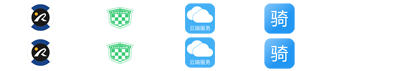
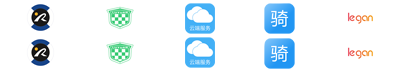
1020
1020

Changed region(s): [[0.87, 0.169, 0.93, 0.338], [0.87, 0.6761, 0.93, 0.8169]]

diff --git a/index.html b/index.html
@@ -2,8 +2,10 @@
 <html xmlns="http://www.w3.org/1999/xhtml">
 <head>
 <meta http-equiv="Content-Type" content="text/html; charset=utf-8" />
+<meta name="viewport" content="width=device-width, initial-scale=1">
 <title>手机APP客户端下载</title>
 <style>
+
 .msgbtns {
 
     float: right;
@@ -59,20 +61,74 @@
 
 <div id="banner-box" style="height:100%">
 	<div class="banner-nav banner-nav-abs">
-		<div class="banner-inner png" style="padding-left:180px">
+		<div class="banner-inner png" >
 			<ul>
-				<li><div></div><a href="javascript:;" class="bg1"><span class="png"></span>智慧新日</a></li>
-				<li><div></div><a href="javascript:;" class="bg2"><span class="png"></span>智慧绿源</a></li>
-				<li><div></div><a href="javascript:;" class="bg3"><span class="png"></span>台铃云</a></li>
-				<li><div></div><a href="javascript:;" class="bg4"><span class="png"></span>骑多多</a></li>
-				<li><div></div><a href="javascript:;" class="bg5"><span class="png"></span>乐感智能</a></li>
+				<li><div></div><a href="javascript:;" class="bg1"><span class="png"></span>骑多多</a></li>
+				<li><div></div><a href="javascript:;" class="bg2"><span class="png"></span>乐感智能</a></li>
+				<li><div></div><a href="javascript:;" class="bg3"><span class="png"></span>智慧新日</a></li>
+				<li><div></div><a href="javascript:;" class="bg4"><span class="png"></span>智慧绿源</a></li>
+				<li><div></div><a href="javascript:;" class="bg5"><span class="png"></span>台铃云</a></li>
 				
 			</ul>
 		</div>
 	</div>
-	<div class="banner-list">
-		<!--活动-->
-		<li style="width:100vh; height:100vh;background: url(img/p3_bg.jpg) rebeccapurple">
+	<div class="banner-list" style="margin:0 auto;">
+		<!--骑多多-->
+        <li style="background: url(img/p3_bg.jpg);">
+        
+		  <div class="animate-box png">
+				<div class="t-d">
+					<h2 style="font-size:45px">骑多多</h2>
+					<br />
+					<p style="font-size:32px">
+					客户端下载
+                   </p>
+                  <div style="font-size:16px; margin-top:50px"><p>用手机扫描左侧二维码，或选择适合你的手机系统下载。</p></div> 
+				<div><img src="img/1508465934.png" width="120" height="120" style="
+    margin-right: 380px;
+    margin-top: 30px;
+" />
+<div class="msgbtns" style="margin-top: -120px; margin-right:40px;">
+                <a href="https://fir.im/hkpw" target="_blank" class="iph forTcss" name="im.mb53.downIphone">iPhone</a>
+                <a href="https://fir.im/hkpw" target="_blank" class="and forTcss" name="im.mb53.downAndroid">Android</a>
+            </div>
+</div>	
+                
+                        
+				</div>
+                
+				<div class="animate-img"><img src="img/iPhone X White 22.png" width="280" height="493" /><img src="img/iPhone X White 222.png" width="280" height="493" /></div>
+		  </div>
+		</li>
+         <!--台铃-->
+		<li style="background: url(img/p4_bg.jpg)">
+			<div class="animate-box png">
+				<div class="t-d">
+					<h2 style="font-size:45px">乐感智能</h2>
+					<br />
+					<p style="font-size:32px">
+					客户端下载
+                   </p>
+                  <div style="font-size:16px; margin-top:50px"><p>用手机扫描左侧二维码，或选择适合你的手机系统下载。</p></div> 
+				<div><img src="img/1508466037.png" width="120" height="120" style="
+    margin-right: 380px;
+    margin-top: 30px;
+" />
+<div class="msgbtns2" style="margin-top: -120px; margin-right:40px;">
+                <a href="https://fir.im/47eu" target="_blank" class="iph forTcss" name="im.mb53.downIphone">iPhone</a>
+                <a href="https://fir.im/47eu" target="_blank" class="and forTcss" name="im.mb53.downAndroid">Android</a>
+            </div>
+</div>	
+                
+                        
+				</div>
+                
+				<div class="animate-img"><img src="img/iPhone X White 55.png" width="280" height="493" /><img src="img/iPhone X White 555.png" width="280" height="493" /></div>
+			</div>
+		</li>
+       
+        <!--新日-->
+		<li style="width:100vh; height:100vh;background: url(img/p5_bg.jpg) rebeccapurple">
 			<div class="animate-box png">
 				<div class="t-d">
 					<h2 style="font-size:45px">智慧新日</h2>
@@ -81,28 +137,23 @@
 					客户端下载
                    </p>
                   <div style="font-size:16px; margin-top:50px"><p>用手机扫描左侧二维码，或选择适合你的手机系统下载。</p></div> 
-				<div><img src="img/qr.png" width="116" height="116" style="
+				<div><img src="img/1508466076.png" width="120" height="120" style="
     margin-right: 380px;
     margin-top: 30px;
 " />
-<div class="msgbtns" style="margin-top: -120px; margin-right:40px;">
-                <a href="https://itunes.apple.com/cn/app/xing-che-wei-shi/id736544925?mt=8" target="_blank" class="iph forTcss" name="im.mb53.downIphone">iPhone</a>
-                <a href="http://openbox.mobilem.360.cn/index/d/sid/1795375" class="and forTcss" name="im.mb53.downAndroid">Android</a>
+<div class="msgbtns3" style="margin-top: -120px; margin-right:40px;">
+               <a href="http://sunra.rokyinfo.net:6081/html/appDown.html" target="_blank" class="iph forTcss" name="im.mb53.downIphone">iPhone</a>
+                <a href="http://sunra.rokyinfo.net:6081/html/appDown.html" target="_blank" class="and forTcss" name="im.mb53.downAndroid">Android</a>
             </div>
 </div>	
-                <div class="number" style="font-size:16px; margin-top:40px">
-                <p style="padding-left:10px; font-weight:600;">免费发送到手机</p> 
-                <div style="margin-top: -60px;"> <input id="mobile_input" maxlength="11" type="text" value="&nbsp;&nbsp;请输入手机号码" onblur="if(this.value==''){this.value='&nbsp;&nbsp;请输入手机号码';this.style.color='#666'}" onfocus="if(this.value=='&nbsp;&nbsp;请输入手机号码'){this.value=''}" style="margin-left:0px; width:200px; height:40px; border-bottom-left-radius:5px;border-top-left-radius:5px;margin-right: 295px;margin-top: 60px; color:#666; font-size:16px;">
-                  </div>
-                  <div style="margin-top: -40px;height: 35px;margin-left: -25px;">
-                  <button type="button" id="sendAppURLBtn" class="button button-glow button-rounded button-caution" style="width:65px; border-bottom-left-radius:0px;border-top-left-radius:0px"><strong>发送</strong></button></div>
-                 </div>
+                
                         
 				</div>
                 
-				<div class="animate-img"><img src="img/phone_1111.png" width="251" height="493" /><img src="img/phone_22222.png" width="249" height="493" /></div>
+				<div class="animate-img"><img src="img/iPhone X White 33.png" width="280" height="493" /><img src="img/iPhone X White 333.png" width="280" height="493" /></div>
 			</div>
 		</li>
+        <!--绿源-->
 		<li style="background: #0C6">
 			<div class="animate-box png">
 				<div class="t-d">
@@ -112,29 +163,25 @@
 					客户端下载
                    </p>
                   <div style="font-size:16px; margin-top:50px"><p>用手机扫描左侧二维码，或选择适合你的手机系统下载。</p></div> 
-				<div><img src="img/qr.png" width="116" height="116" style="
+				<div><img src="img/1508466113.png" width="120" height="120" style="
     margin-right: 380px;
     margin-top: 30px;
 " />
 <div class="msgbtns1" style="margin-top: -120px; margin-right:40px;">
-                <a href="https://itunes.apple.com/cn/app/xing-che-wei-shi/id736544925?mt=8" target="_blank" class="iph forTcss" name="im.mb53.downIphone">iPhone</a>
-                <a href="http://openbox.mobilem.360.cn/index/d/sid/1795375" class="and forTcss" name="im.mb53.downAndroid">Android</a>
+                <a href="http://openbox.mobilem.360.cn/index/d/sid/3840090" target="_blank" class="iph forTcss" name="im.mb53.downIphone">iPhone</a>
+                <a href="http://openbox.mobilem.360.cn/index/d/sid/3840090" target="_blank" class="and forTcss" name="im.mb53.downAndroid">Android</a>
             </div>
 </div>	
-                <div class="number" style="font-size:16px; margin-top:40px">
-                <p style="padding-left:10px; font-weight:600;">免费发送到手机</p> 
-                <div style="margin-top: -60px;"> <input id="mobile_input" maxlength="11" type="text" value="&nbsp;&nbsp;请输入手机号码" onblur="if(this.value==''){this.value='&nbsp;&nbsp;请输入手机号码';this.style.color='#666'}" onfocus="if(this.value=='&nbsp;&nbsp;请输入手机号码'){this.value=''}" style="margin-left:0px; width:200px; height:40px; border-bottom-left-radius:5px;border-top-left-radius:5px;margin-right: 295px;margin-top: 60px; color:#666; font-size:16px;">
-                  </div>
-                  <div style="margin-top: -40px;height: 35px;margin-left: -25px;">
-                  <button type="button" id="sendAppURLBtn" class="button button-glow button-rounded button-caution" style="width:65px; border-bottom-left-radius:0px;border-top-left-radius:0px"><strong>发送</strong></button></div>
-                 </div>
+                
                         
 				</div>
                 
-				<div class="animate-img"><img src="img/phone_1111.png" width="251" height="493" /><img src="img/phone_22222.png" width="249" height="493" /></div>
+				<div class="animate-img"><img src="img/iPhone X White 44.png" width="280" height="493" /><img src="img/iPhone X White 444.png" width="280" height="493" /></div>
 			</div>
 		</li>
-		<li style="background: url(img/p4_bg.jpg)">
+       
+		 <!--乐感-->
+        <li style="background: url(img/636ac37125119d607b3d09c1de0d42d1.png)">
 			<div class="animate-box png">
 				<div class="t-d">
 					<h2 style="font-size:45px">台铃云</h2>
@@ -143,93 +190,27 @@
 					客户端下载
                    </p>
                   <div style="font-size:16px; margin-top:50px"><p>用手机扫描左侧二维码，或选择适合你的手机系统下载。</p></div> 
-				<div><img src="img/qr.png" width="116" height="116" style="
-    margin-right: 380px;
-    margin-top: 30px;
-" />
-<div class="msgbtns2" style="margin-top: -120px; margin-right:40px;">
-                <a href="https://itunes.apple.com/cn/app/xing-che-wei-shi/id736544925?mt=8" target="_blank" class="iph forTcss" name="im.mb53.downIphone">iPhone</a>
-                <a href="http://openbox.mobilem.360.cn/index/d/sid/1795375" class="and forTcss" name="im.mb53.downAndroid">Android</a>
-            </div>
-</div>	
-                <div class="number" style="font-size:16px; margin-top:40px">
-                <p style="padding-left:10px; font-weight:600;">免费发送到手机</p> 
-                <div style="margin-top: -60px;"> <input id="mobile_input" maxlength="11" type="text" value="&nbsp;&nbsp;请输入手机号码" onblur="if(this.value==''){this.value='&nbsp;&nbsp;请输入手机号码';this.style.color='#666'}" onfocus="if(this.value=='&nbsp;&nbsp;请输入手机号码'){this.value=''}" style="margin-left:0px; width:200px; height:40px; border-bottom-left-radius:5px;border-top-left-radius:5px;margin-right: 295px;margin-top: 60px; color:#666; font-size:16px;">
-                  </div>
-                  <div style="margin-top: -40px;height: 35px;margin-left: -25px;">
-                  <button type="button" id="sendAppURLBtn" class="button button-glow button-rounded button-caution" style="width:65px; border-bottom-left-radius:0px;border-top-left-radius:0px"><strong>发送</strong></button></div>
-                 </div>
-                        
-				</div>
-                
-				<div class="animate-img"><img src="img/phone_1111.png" width="251" height="493" /><img src="img/phone_22222.png" width="249" height="493" /></div>
-			</div>
-		</li>
-		<li style="background: url(img/p5_bg.jpg)">
-			<div class="animate-box png">
-				<div class="t-d">
-					<h2 style="font-size:45px">骑多多</h2>
-					<br />
-					<p style="font-size:32px">
-					客户端下载
-                   </p>
-                  <div style="font-size:16px; margin-top:50px"><p>用手机扫描左侧二维码，或选择适合你的手机系统下载。</p></div> 
-				<div><img src="img/qr.png" width="116" height="116" style="
-    margin-right: 380px;
-    margin-top: 30px;
-" />
-<div class="msgbtns3" style="margin-top: -120px; margin-right:40px;">
-                <a href="https://itunes.apple.com/cn/app/xing-che-wei-shi/id736544925?mt=8" target="_blank" class="iph forTcss" name="im.mb53.downIphone">iPhone</a>
-                <a href="http://openbox.mobilem.360.cn/index/d/sid/1795375" class="and forTcss" name="im.mb53.downAndroid">Android</a>
-            </div>
-</div>	
-                <div class="number" style="font-size:16px; margin-top:40px">
-                <p style="padding-left:10px; font-weight:600;">免费发送到手机</p> 
-                <div style="margin-top: -60px;"> <input id="mobile_input" maxlength="11" type="text" value="&nbsp;&nbsp;请输入手机号码" onblur="if(this.value==''){this.value='&nbsp;&nbsp;请输入手机号码';this.style.color='#666'}" onfocus="if(this.value=='&nbsp;&nbsp;请输入手机号码'){this.value=''}" style="margin-left:0px; width:200px; height:40px; border-bottom-left-radius:5px;border-top-left-radius:5px;margin-right: 295px;margin-top: 60px; color:#666; font-size:16px;">
-                  </div>
-                  <div style="margin-top: -40px;height: 35px;margin-left: -25px;">
-                  <button type="button" id="sendAppURLBtn" class="button button-glow button-rounded button-caution" style="width:65px; border-bottom-left-radius:0px;border-top-left-radius:0px"><strong>发送</strong></button></div>
-                 </div>
-                        
-				</div>
-                
-				<div class="animate-img"><img src="img/phone_1111.png" width="251" height="493" /><img src="img/phone_22222.png" width="249" height="493" /></div>
-			</div>
-		</li>
-		<li style="background: url(img/636ac37125119d607b3d09c1de0d42d1.png)">
-			<div class="animate-box png">
-				<div class="t-d">
-					<h2 style="font-size:45px">乐感智能</h2>
-					<br />
-					<p style="font-size:32px">
-					客户端下载
-                   </p>
-                  <div style="font-size:16px; margin-top:50px"><p>用手机扫描左侧二维码，或选择适合你的手机系统下载。</p></div> 
-				<div><img src="img/qr.png" width="116" height="116" style="
+				<div><img src="img/1508466154.png" width="120" height="120" style="
     margin-right: 380px;
     margin-top: 30px;
 " />
 <div class="msgbtns4" style="margin-top: -120px; margin-right:40px;">
-                <a href="https://itunes.apple.com/cn/app/xing-che-wei-shi/id736544925?mt=8" target="_blank" class="iph forTcss" name="im.mb53.downIphone">iPhone</a>
-                <a href="http://openbox.mobilem.360.cn/index/d/sid/1795375" class="and forTcss" name="im.mb53.downAndroid">Android</a>
+                <a href="http://zhushou.360.cn/detail/index/soft_id/3243189" target="_blank" class="iph forTcss" name="im.mb53.downIphone">iPhone</a>
+                <a href="http://zhushou.360.cn/detail/index/soft_id/3243189" target="_blank" class="and forTcss" name="im.mb53.downAndroid">Android</a>
             </div>
 </div>	
-                <div class="number" style="font-size:16px; margin-top:40px">
-                <p style="padding-left:10px; font-weight:600;">免费发送到手机</p> 
-                <div style="margin-top: -60px;"> <input id="mobile_input" maxlength="11" type="text" value="&nbsp;&nbsp;请输入手机号码" onblur="if(this.value==''){this.value='&nbsp;&nbsp;请输入手机号码';this.style.color='#666'}" onfocus="if(this.value=='&nbsp;&nbsp;请输入手机号码'){this.value=''}" style="margin-left:0px; width:200px; height:40px; border-bottom-left-radius:5px;border-top-left-radius:5px;margin-right: 295px;margin-top: 60px; color:#666; font-size:16px;">
-                  </div>
-                  <div style="margin-top: -40px;height: 35px;margin-left: -25px;">
-                  <button type="button" id="sendAppURLBtn" class="button button-glow button-rounded button-caution" style="width:65px; border-bottom-left-radius:0px;border-top-left-radius:0px"><strong>发送</strong></button></div>
-                 </div>
+                
                         
 				</div>
                 
-				<div class="animate-img"><img src="img/phone_1111.png" width="251" height="493" /><img src="img/phone_22222.png" width="249" height="493" /></div>
+				<div class="animate-img"><img src="img/iPhone X White 11.png" width="280" height="493" /><img src="img/iPhone X White 111.png" width="280" height="493" /></div>
 			</div>
 		</li>
 		
+		
 	</div>
 </div>
+
 
 </body>
 </html>

diff --git a/css/style.css b/css/style.css
@@ -1,6 +1,7 @@
 @charset "utf-8";div,form,img,ul,ol,li,dl,dt,dd,p,tr,td,body,strong,span,pre,input{margin:0;padding:0;border:0;background-repeat:no-repeat;}
 h1,h2,h3,h4,h5,h6,p{ margin:0;padding:0;font-weight:normal;}
-body{font-family:"寰蒋闆呴粦";font-size:12px;margin:0px;padding:0px;color:#333;line-height:24px;height:auto;clear:both;min-width:300px;}
+
+body{font-family:"寰蒋闆呴粦";font-size:12px;margin:auto;padding:0px;color:#333;line-height:24px;height:100vh;clear:both;min-width:400px; overflow:hidden;}
 img{border:0px;}
 ul,li{ list-style:none;}
 em,i{ font-style:normal;}
@@ -11,7 +12,7 @@ a,area{blr:expression(this.onFocus=this.blur())}
 /*banner*/
 #banner-box{margin:0px auto;height:500px;overflow:hidden;position:relative;padding-top:-40px;}
 .banner-inner{height:65px;margin:0px auto}
-.banner-nav-abs{position:absolute;left:0px;bottom:0px;z-index:3;min-width:1200px;}
+.banner-nav-abs{position:absolute;left:0px;bottom:0px;z-index:3;min-width:50%;}
 .banner-nav-abs-opac{position:absolute;width:100%;height:78px;left:0px;bottom:-22px;z-index:2}
 .banner-nav-fix{position:fixed;left:0px;top:82px;z-index:3}
 .banner-nav{width:100%}
@@ -19,29 +20,29 @@ a,area{blr:expression(this.onFocus=this.blur())}
 .banner-nav li {float:left;display:inline;width:112px;height:65px;font-size:14px;padding:5px 43px 0px 43px;cursor:pointer;position:relative;margin:0px 1px}
 .banner-nav li div{width:110px;height:65px;padding:5px 43px 0px 43px;position:absolute;left:0px;top:0px;z-index:5;background:#fff;filter:alpha(opacity=20);-moz-opacity:0.2;-khtml-opacity:0.2;opacity:0.2}
 .banner-nav li a span{display:block;height:36px;width:60px;margin:3px auto 0px auto;background: url(../img/icon-banner2.png) no-repeat;}
-.banner-nav li a.bg1 span{background-position:-10px 2px}
-.banner-nav li a.bg2 span{background-position:-87px 2px}
-.banner-nav li a.bg3 span{background-position:-170px 2px}
-.banner-nav li a.bg4 span{background-position:-250px 2px}
-.banner-nav li a.bg5 span{background-position:-335px 2px}
+.banner-nav li a.bg3 span{background-position:-10px 2px}
+.banner-nav li a.bg4 span{background-position:-87px 2px}
+.banner-nav li a.bg5 span{background-position:-170px 2px}
+.banner-nav li a.bg1 span{background-position:-250px 2px}
+.banner-nav li a.bg2 span{background-position:-330px 2px}
 .banner-nav li a.bg6 span{background-position:-297px 2px}
 .banner-nav li a{display:block;float:left;position:absolute;left:0px;top:0px;color:#fff;z-index:6;padding:5px 43px 0px 43px;display:inline;width:110px;height:65px;padding-top:5px;text-align:center}
 .banner-nav li.current{cursor:default;}
 .banner-nav li.current div{width:95px;height:95px;background:none;}
 .banner-nav li.current a{color:#333;cursor:default;background:#eee;}
-.banner-nav li.current a.bg1 span{background-position:-10px -34px}
-.banner-nav li.current a.bg2 span{background-position:-87px -34px}
-.banner-nav li.current a.bg3 span{background-position:-170px -34px}
-.banner-nav li.current a.bg4 span{background-position:-250px -34px}
-.banner-nav li.current a.bg5 span{background-position:-335px -34px}
+.banner-nav li.current a.bg3 span{background-position:-10px -34px}
+.banner-nav li.current a.bg4 span{background-position:-87px -34px}
+.banner-nav li.current a.bg5 span{background-position:-170px -34px}
+.banner-nav li.current a.bg1 span{background-position:-250px -34px}
+.banner-nav li.current a.bg2 span{background-position:-330px -34px}
 .banner-nav li.current a.bg6 span{background-position:-297px -32px}
-.banner-list{position:absolute;height:100vh;position:absolute;z-index:2;overflow:hidden;width:100%}
+.banner-list{position:absolute;height:100%;position:absolute;z-index:2;overflow:hidden;width:100%}
 .banner-list li{width:100%;height:100vh;text-align:center;float:left;display:inline-block}
 .banner-list li .animate-box {width:1200px;margin:0px auto;position:relative}
-.banner-list li .animate-box .t-d{ float:left;position:absolute;width:500px; height:500px;left:20px;top:150px; margin-left:-100px;}
+.banner-list li .animate-box .t-d{ float:left;position:absolute;width:500px; height:500px;left:20px;top:130px; margin-left:-100px;}
 .banner-list li .animate-box .t-d h2 {display:block;margin:0px;padding:0px;font-size:30px;text-align:left;color:#fff}
 .banner-list li .animate-box .t-d p{color:#fff;padding:10px 0px 0 0;line-height:32px;left:20px;text-align:left}
-.banner-list li .animate-box .animate-img{position:absolute;top:50px;right:0px}
+.banner-list li .animate-box .animate-img{position:absolute;top:120px;right:0px}
 .slider-btn{width:100px;height:30px;background:#fff;border-radius:4px;-moz-border-radius:4px;line-height:30px;text-align:center;font-size:12px;color:#444;display:block ;font-family:"宋体";}
 .slider-btn:hover{color:#fff;background:#c80106;}
 .msgbtns1 {
@@ -175,7 +176,7 @@ a,area{blr:expression(this.onFocus=this.blur())}
     height: 54px;
     overflow: hidden;
     text-indent: -999px;
-	background: transparent url(../../img/downbtns5.png)  no-repeat 0 0;}
+	background: transparent  url(../img/downbtns5.png)  no-repeat 0 0;}
 	.msgbtns4 a.iph {
     margin-bottom: 23px;
     background-position: 0 0;
@@ -198,5 +199,10 @@ a,area{blr:expression(this.onFocus=this.blur())}
         background-position-x: 0px;
         background-position-y: -165px;
 		
+}
+@media (max-width: 414px) {
+.banner-inner png{
+	padding-left:5px;
+	}
 
 }

diff --git a/js/main.js b/js/main.js
@@ -7,22 +7,22 @@
 		generatePagination:false,
 		paginationClass:"banner-nav",
 		container: 'banner-list',
-		/*play: 10000,
-		pause:6000,*/
+		/*play: 12000,
+		pause:8000,*/
 		effect:"fade",
 		slideEasing:"easeInOutQuart",
 		slidesLoaded: function() {
 		},
 		animationStart: function(current){
 		$('.t-d').animate({
-			top:100,left:0
+			top:130,left:0
 		});
-		$('.animate-img').animate({top:50,right:0});
+		$('.animate-img').animate({top:120,right:0});
 
 	},
 		animationComplete: function(current){
-			$('.t-d').animate({top:100,left:20});
-			$('.animate-img').animate({top:50,right:50});
+			$('.t-d').animate({top:130,left:20});
+			$('.animate-img').animate({top:120,right:40});
 		}
 	});
 
